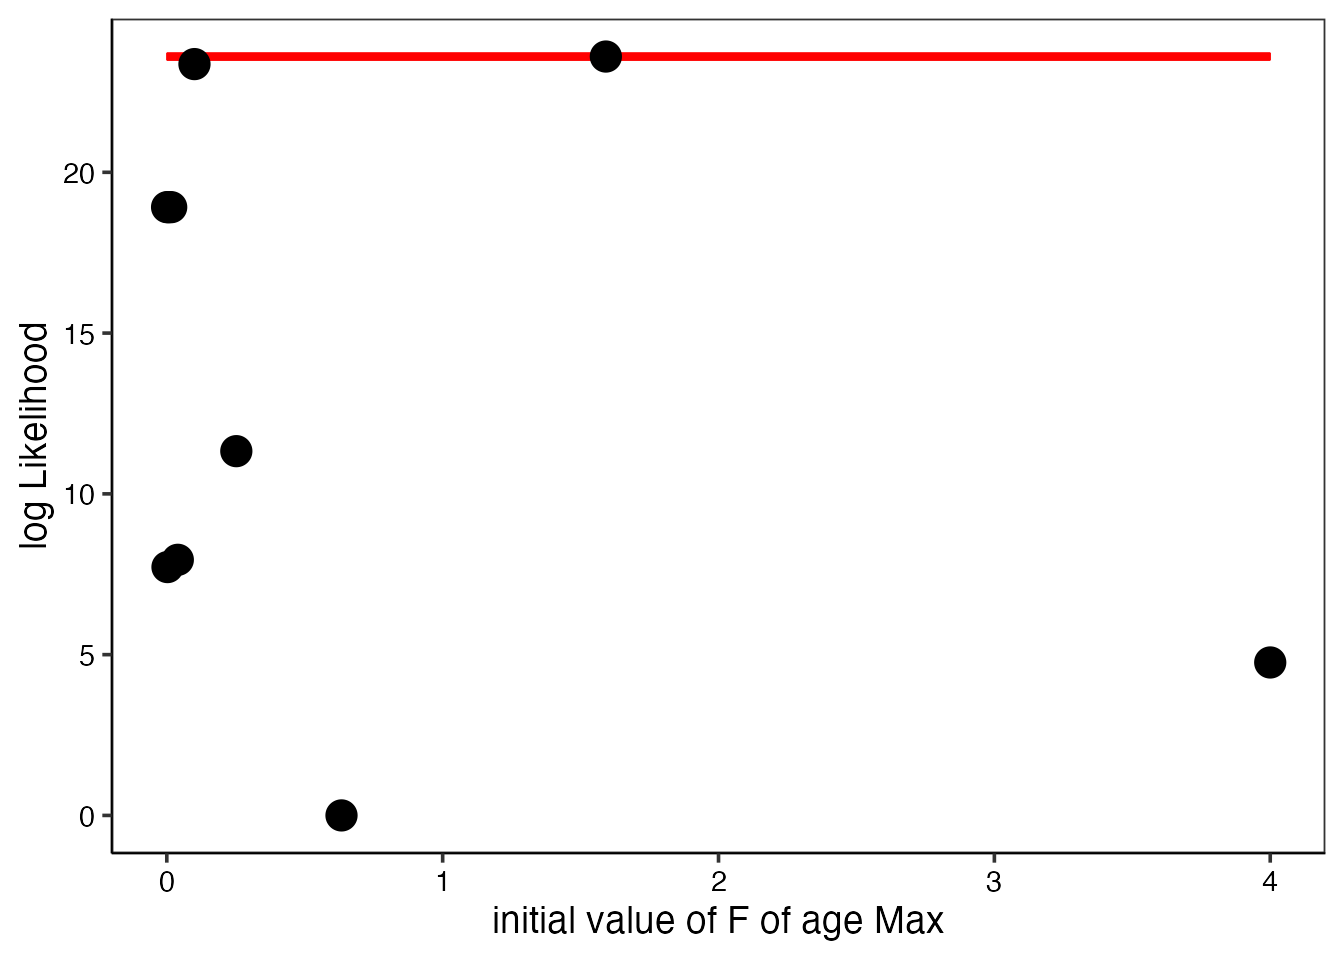
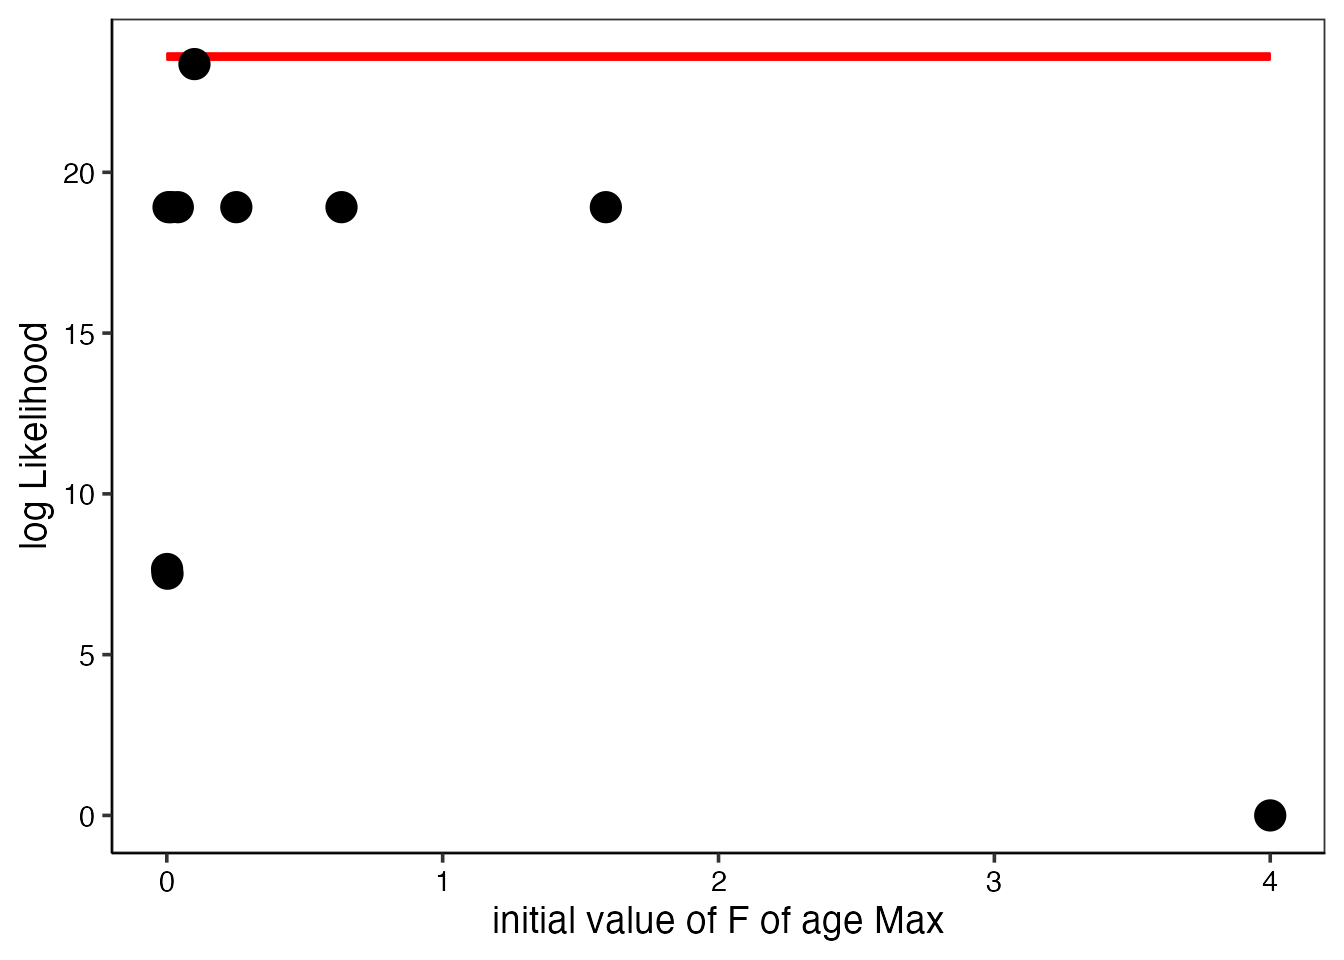
Built site for frasyr: 2.1.1.0@9bee2d0

diff --git a/articles/Diagnostics-for-VPA.html b/articles/Diagnostics-for-VPA.html
@@ -430,7 +430,7 @@
 <p>を指定します。コマンドは以下の通りです。</p>
 <div class="sourceCode" id="cb25"><pre class="downlit">
 <span class="va">res_vpa_jitter</span> <span class="op">&lt;-</span> <span class="fu"><a href="../reference/do_estcheck_vpa.html">do_estcheck_vpa</a></span><span class="op">(</span><span class="va">res_vpa_estb</span>, n_ite<span class="op">=</span><span class="fl">10</span><span class="op">)</span></pre></div>
-<pre><code>Maximum likelihood in jitter analysis is:  23.60018 
+<pre><code>Maximum likelihood in jitter analysis is:  23.36542 
 Likelihood with estimated parameters is:  23.60018 </code></pre>
 <p>最初に引数で与えたVPA結果について、</p>
 <ul>
@@ -564,8 +564,8 @@ Likelihood with estimated parameters is:  23.60018 </code></pre>
 <span class="va">res_tmp</span> <span class="op">&lt;-</span> <span class="fu"><a href="https://rdrr.io/r/base/numeric.html">numeric</a></span><span class="op">(</span><span class="op">)</span>
 <span class="kw">for</span><span class="op">(</span><span class="va">i</span> <span class="kw">in</span> <span class="fl">1</span><span class="op">:</span><span class="fl">10</span><span class="op">)</span> <span class="va">res_tmp</span><span class="op">[</span><span class="va">i</span><span class="op">]</span> <span class="op">&lt;-</span> <span class="fu"><a href="https://rdrr.io/r/base/numeric.html">as.numeric</a></span><span class="op">(</span><span class="va">res_vpa_bootstrap</span><span class="op">$</span><span class="va">res_boot</span><span class="op">[[</span><span class="va">i</span><span class="op">]</span><span class="op">]</span><span class="op">$</span><span class="va">Fc.at.age</span><span class="op">[</span><span class="fl">4</span><span class="op">]</span><span class="op">)</span>
 <span class="fu"><a href="https://rdrr.io/r/stats/quantile.html">quantile</a></span><span class="op">(</span><span class="va">res_tmp</span>, probs <span class="op">=</span> <span class="fu"><a href="https://rdrr.io/r/base/c.html">c</a></span><span class="op">(</span><span class="fl">0.025</span>,<span class="fl">0.5</span>,<span class="fl">0.975</span><span class="op">)</span><span class="op">)</span></pre></div>
-<pre><code>     2.5%       50%     97.5% 
-0.3722910 0.7931738 6.1648792 </code></pre>
+<pre><code>      2.5%        50%      97.5% 
+ 0.4763838  0.8260563 40.1179881 </code></pre>
 <p>この他、各パラメータの相関関係について、ブートストラップ標本を基にプロットが得られます。</p>
 <div class="sourceCode" id="cb41"><pre class="downlit">
 <span class="va">res_vpa_bootstrap</span><span class="op">$</span><span class="va">plot_cor</span></pre></div>
